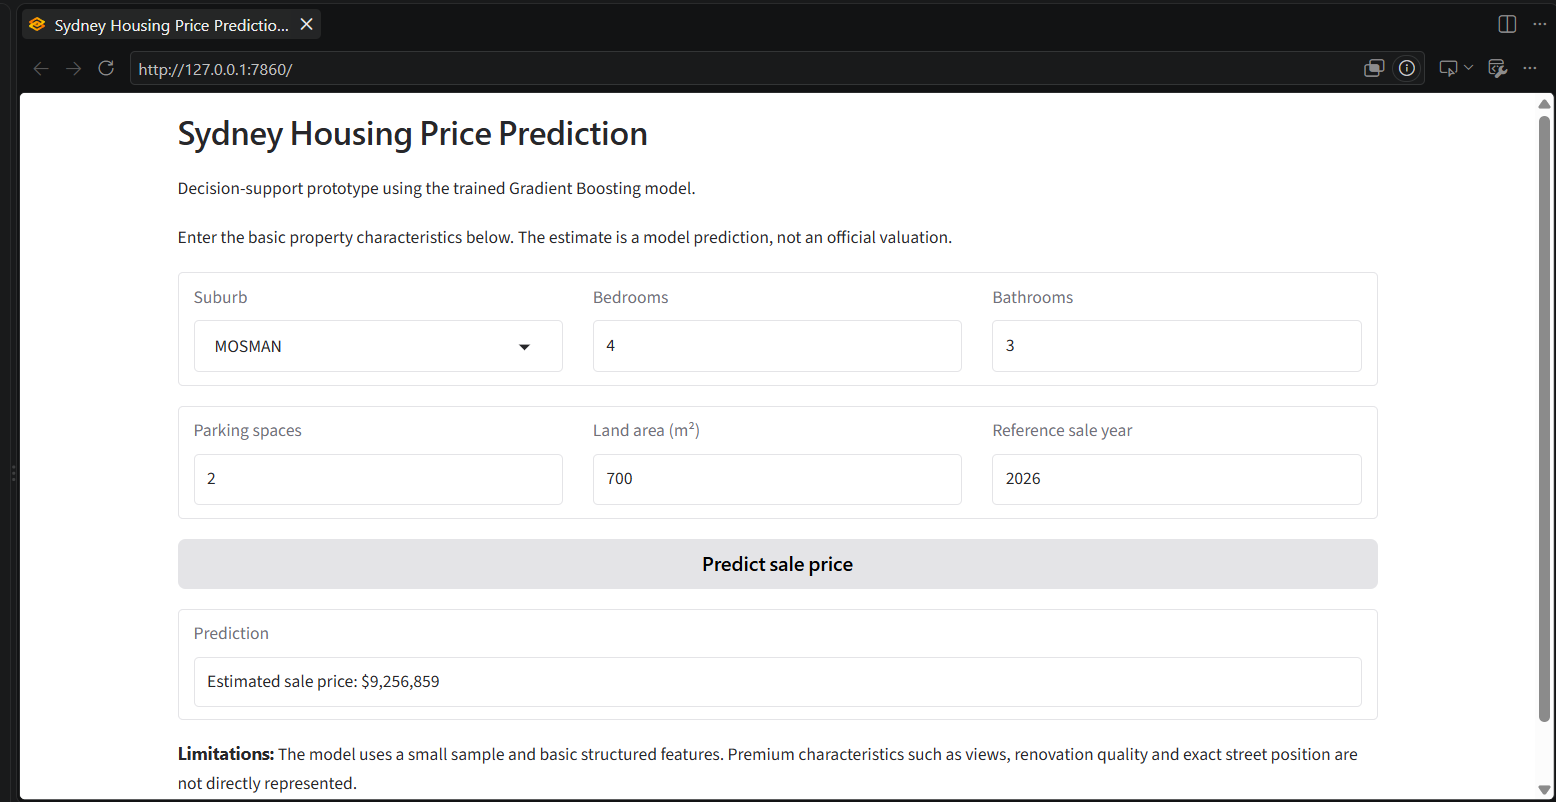
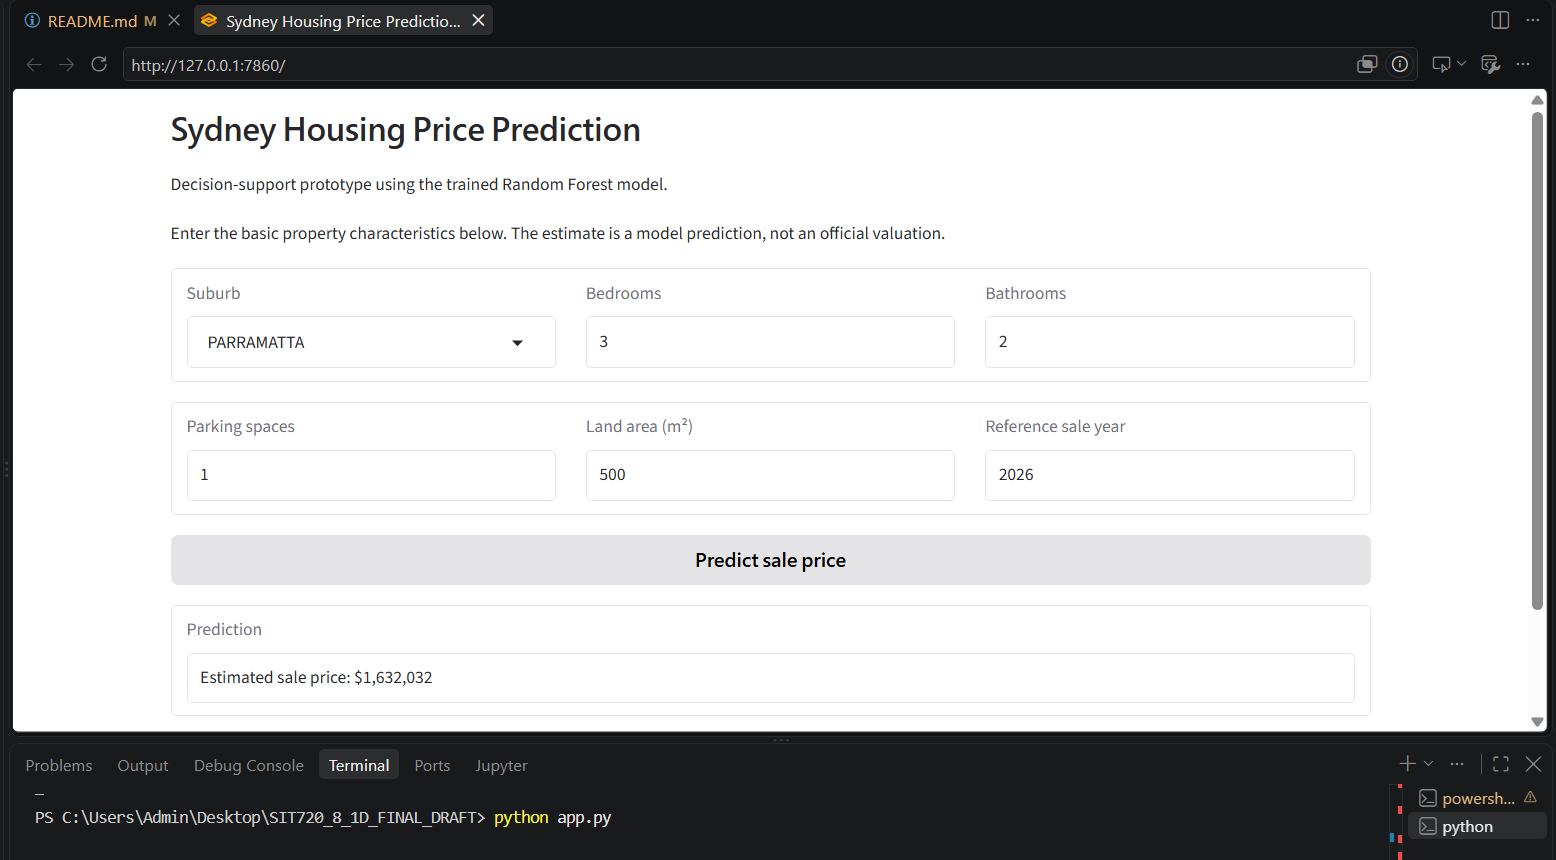
errors solved

diff --git a/README.md b/README.md
@@ -44,4 +44,4 @@ The ten properties were selected independently of model prediction error to avoi
 
 ## GenAI acknowledgement
 
-Generative AI was used for planning, code review, debugging support, LLM estimation and editing assistance. Generated suggestions were reviewed and adapted. The student remains responsible for checking the final work, understanding the methods and entering the genuine Human Estimate values.
+Generative AI was used for planning, code review, debugging support, LLM estimation and editing assistance. Generated suggestions were reviewed and adapted. The student remains responsible for checking the final work, understanding the methods and verifying the reported results.
